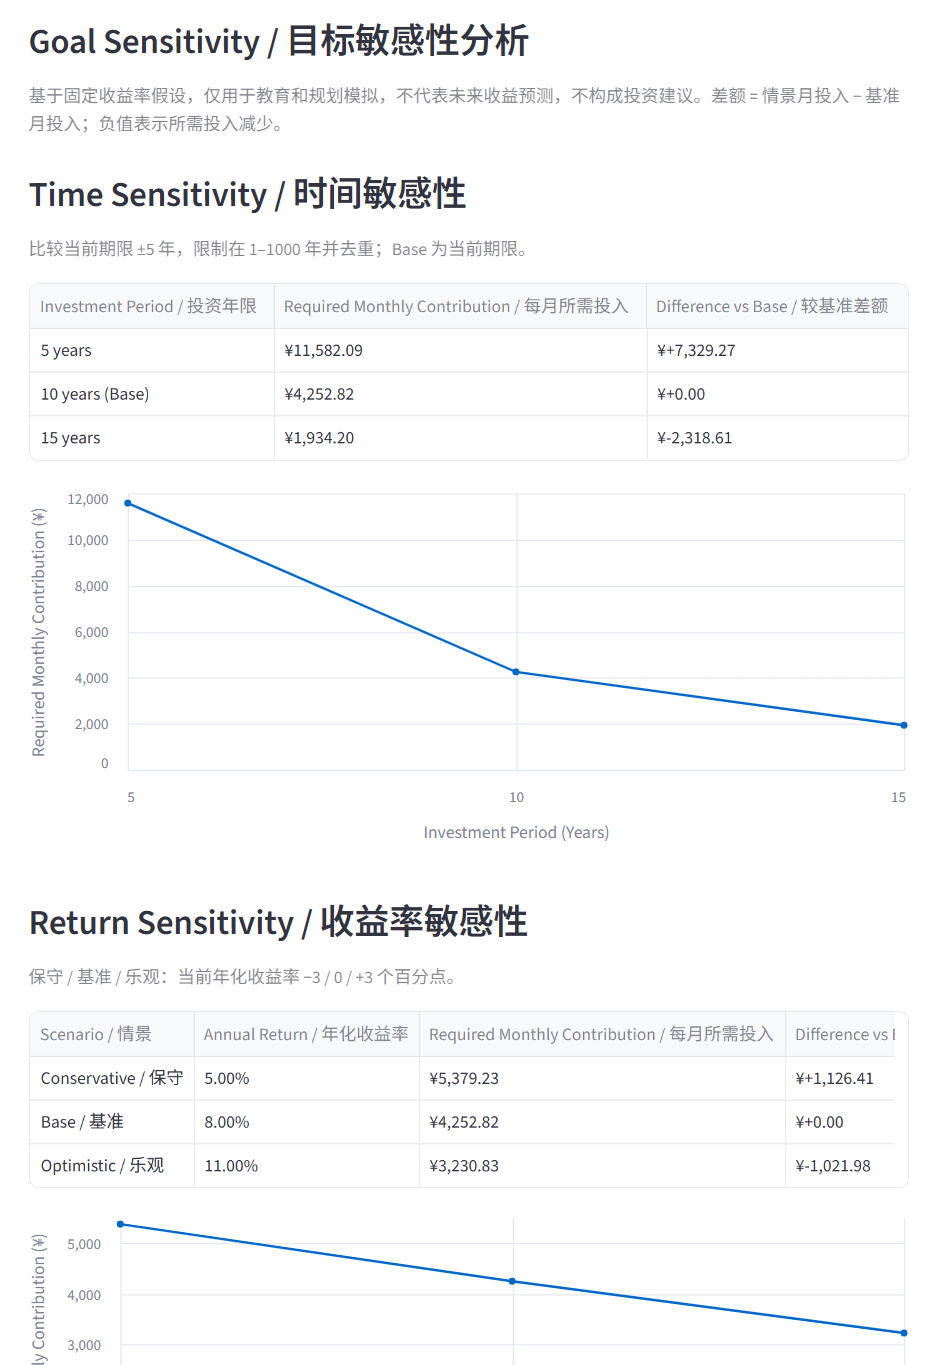
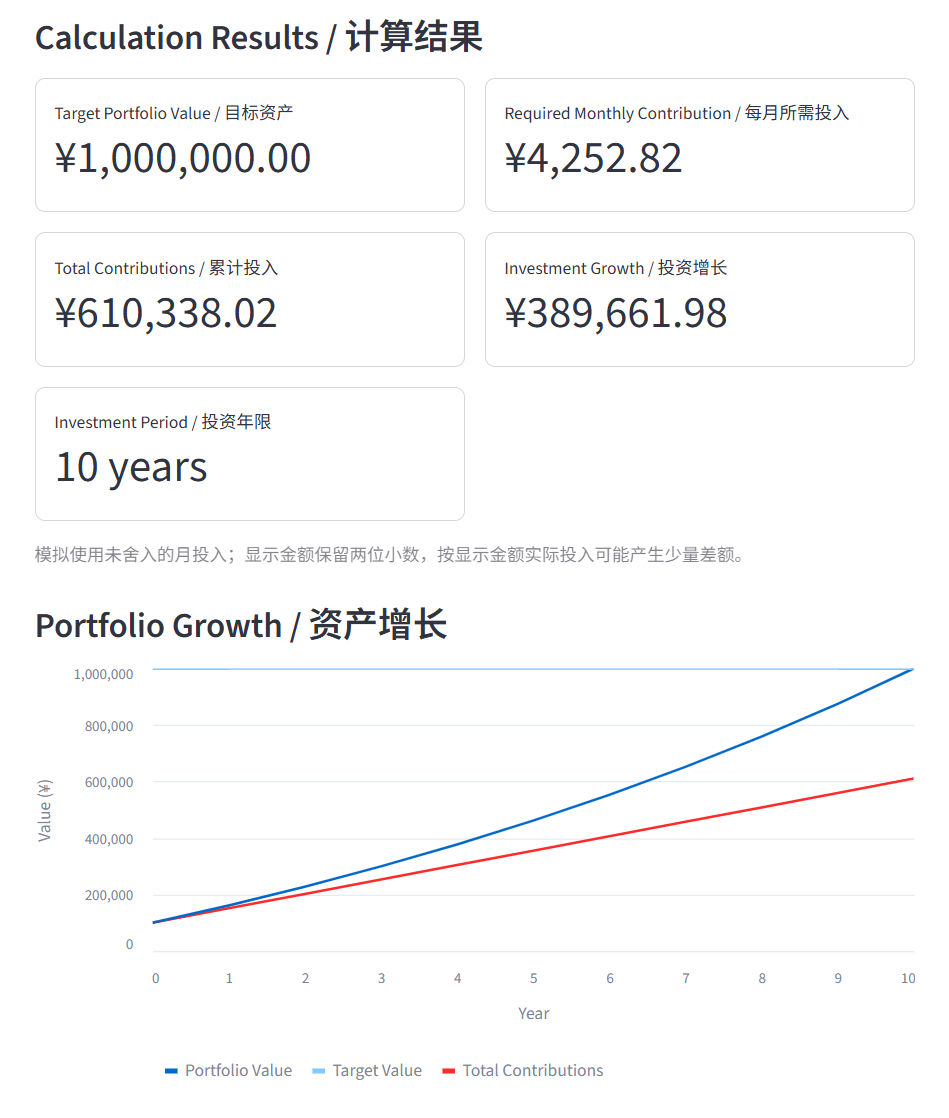
Update v0.3 screenshots

diff --git a/README.md b/README.md
@@ -138,31 +138,29 @@ On macOS/Linux use `.venv/bin/python`. SQLite initializes automatically; no API 
 
 ## Screenshots / 截图
 
-### v0.3.0 capture plan / 待人工截图
+### Portfolio Analytics
 
-尚未生成新截图；以下为计划位置，不是缺失图片链接。
-No new screenshots have been generated; these are planned filenames, not image links.
+历史组合表现、基准比较、风险指标与分散化分析。 / Historical portfolio performance, benchmark comparison, risk metrics, and diversification analysis.
 
-| Capture / 内容 | Planned file / 计划文件 |
-|---|---|
-| Portfolio Analytics — Performance Overview + Benchmark | `assets/portfolio_analytics_v0.3.0.png` |
-| Future Outlook — Scenario + Monte Carlo | `assets/future_outlook_v0.3.0.png` |
-| Portfolio Guidance — Profile Fit + Guidance | `assets/portfolio_guidance_v0.3.0.png` |
-| Compound Interest — current hero + planning results | `assets/compound_interest_v0.3.0.png` |
+![Portfolio Analytics](assets/portfolio_analytics.png)
 
-建议正常桌面宽度截图、显示真实数据源或 Demo 标签，避免标题与数值裁切；可补一张中文组合分析。
-Capture at desktop width, keeping source/Demo labels and complete values visible; optionally add a Chinese analytics screenshot.
+### Future Outlook
 
-### Historical planning screenshots / 历史规划截图 — v0.2.0
+通过情景投影与蒙特卡洛模拟展示可能的组合结果。 / Scenario projection and Monte Carlo simulation for possible future portfolio outcomes.
 
-以下文件保留。复利截图图例略截断、目标规划右侧列和下方图表裁切，建议人工重拍；DCA 可保留为补充。这些截图未展示当前 Hero 或新增组合模块。
-These files are retained. Compound Interest has a clipped legend and Goal Planner has cropped columns/chart; retake those for the main showcase. DCA remains useful supplementary material. None shows the new hero or portfolio modules.
+![Future Outlook](assets/future_outlook.png)
 
-![Compound Interest — scenario analysis](assets/compound_interest.png)
+### Portfolio Guidance
 
-![DCA Simulator — inflation-adjusted growth](assets/dca_simulator.png)
+根据历史与模拟风险证据，提供规则驱动的偏好匹配与可解释建议。 / Rule-based profile fit and explainable portfolio guidance based on historical and simulated risk evidence.
 
-![Goal Planner — sensitivity analysis](assets/goal_planner.png)
+![Portfolio Guidance](assets/portfolio_guidance.png)
+
+### Goal Planner
+
+目标导向的月投入规划与资产增长模拟。 / Goal-based financial planning with required monthly contribution and portfolio growth projection.
+
+![Goal Planner](assets/goal_planner.png)
 
 ## Roadmap / 后续方向
 
